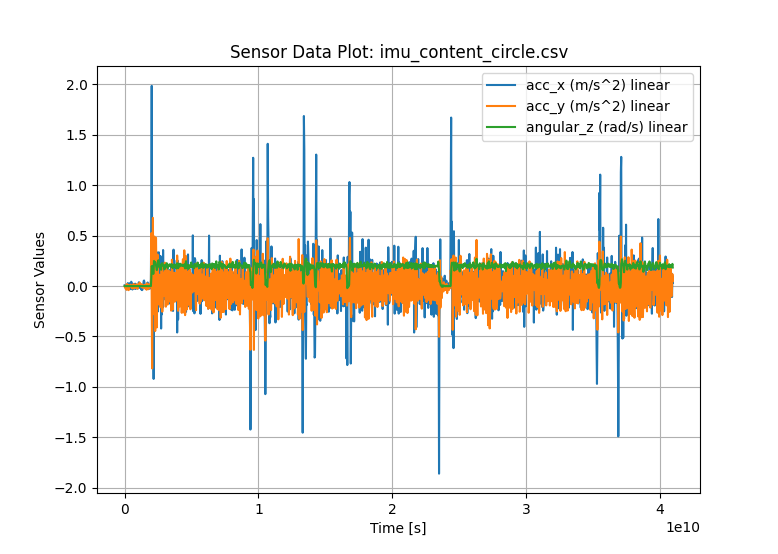
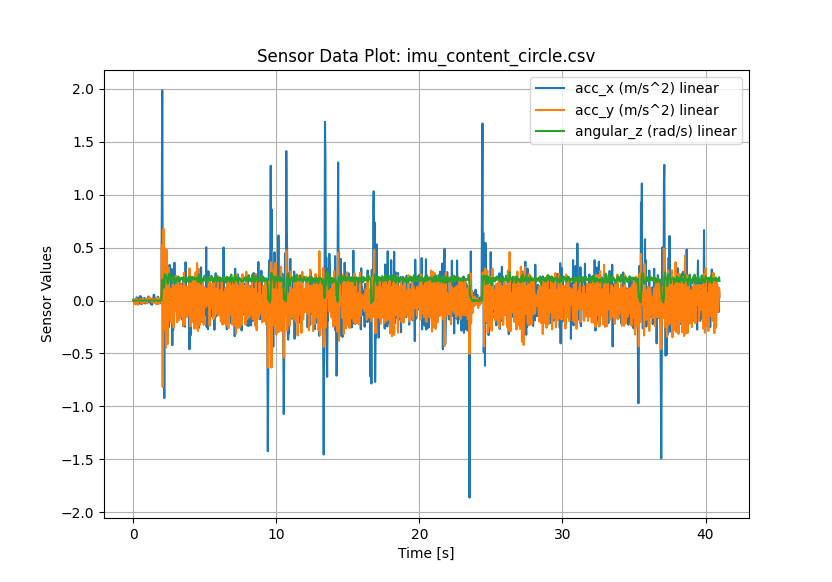
Updated filePlotter.py to plot in seconds (ROS timestamps in Ns). Updatted odom and imu plots.

diff --git a/filePlotter.py b/filePlotter.py
@@ -12,7 +12,7 @@ def plot_errors(filename):
     first_stamp=values[0][-1]
     
     for val in values:
-        time_list.append(val[-1] - first_stamp)
+        time_list.append((val[-1] - first_stamp) / 1e9) # convert to seconds
 
     for i in range(0, len(headers) - 1):
         plt.plot(time_list, [lin[i] for lin in values], label= headers[i]+ " linear")
